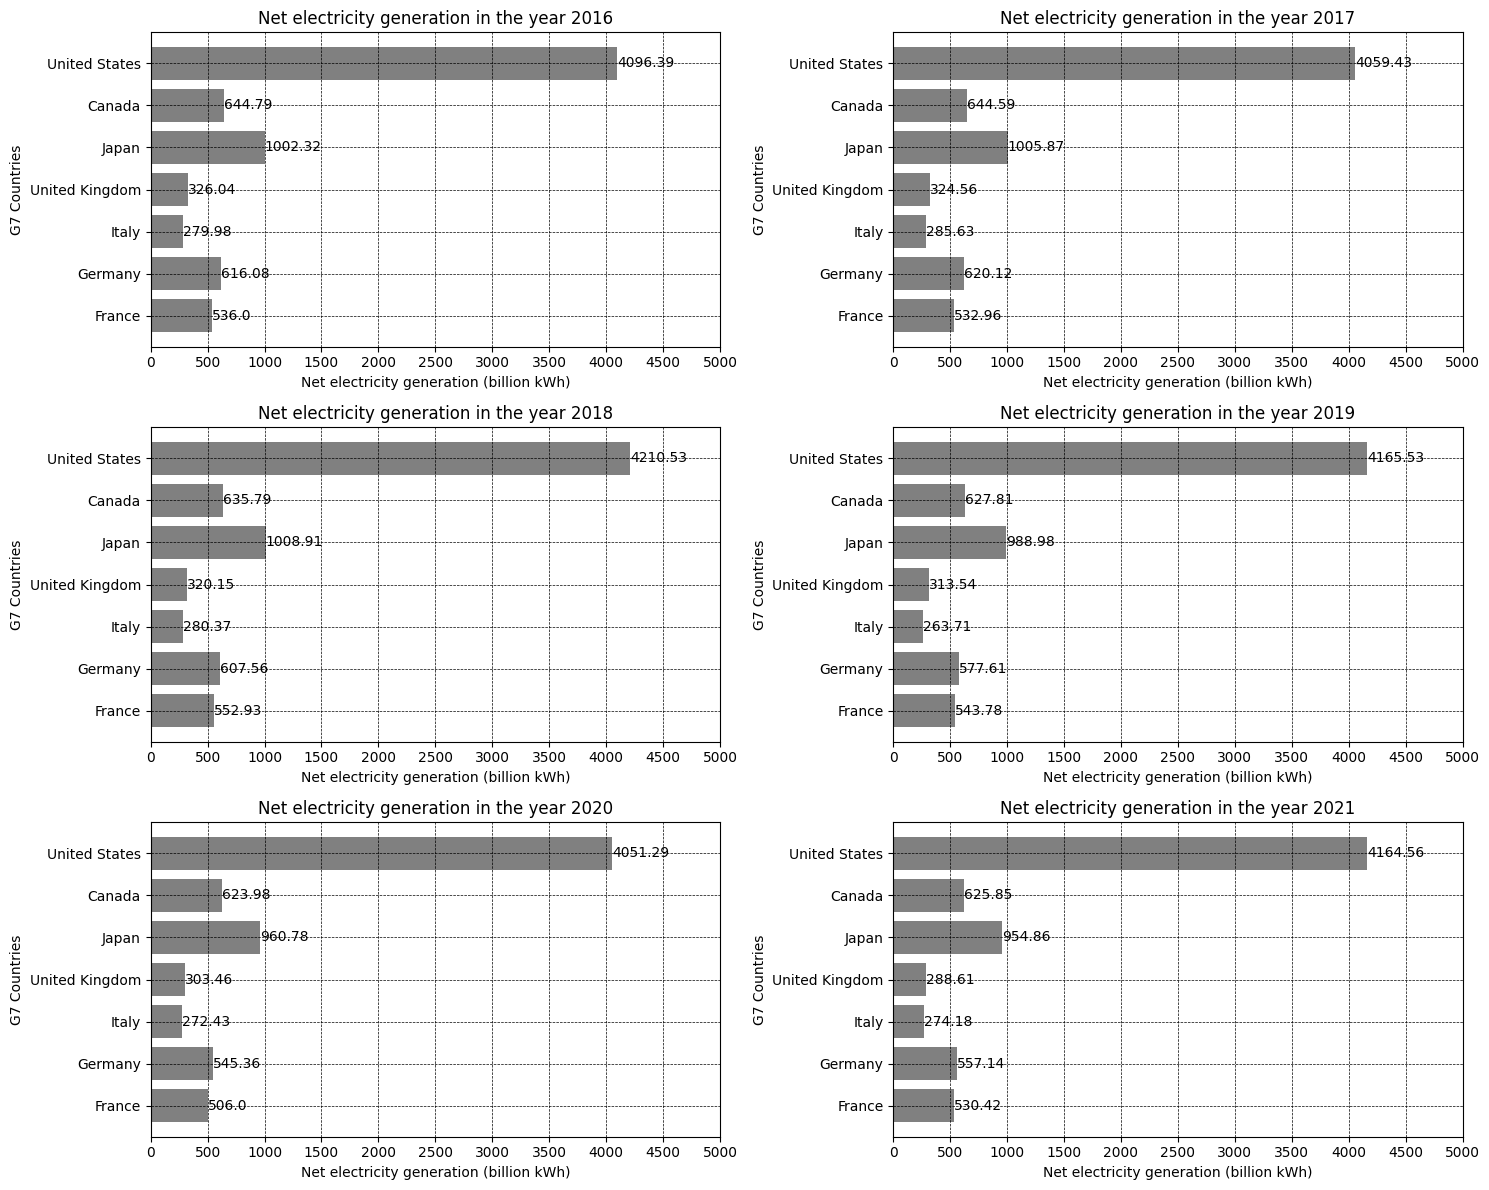
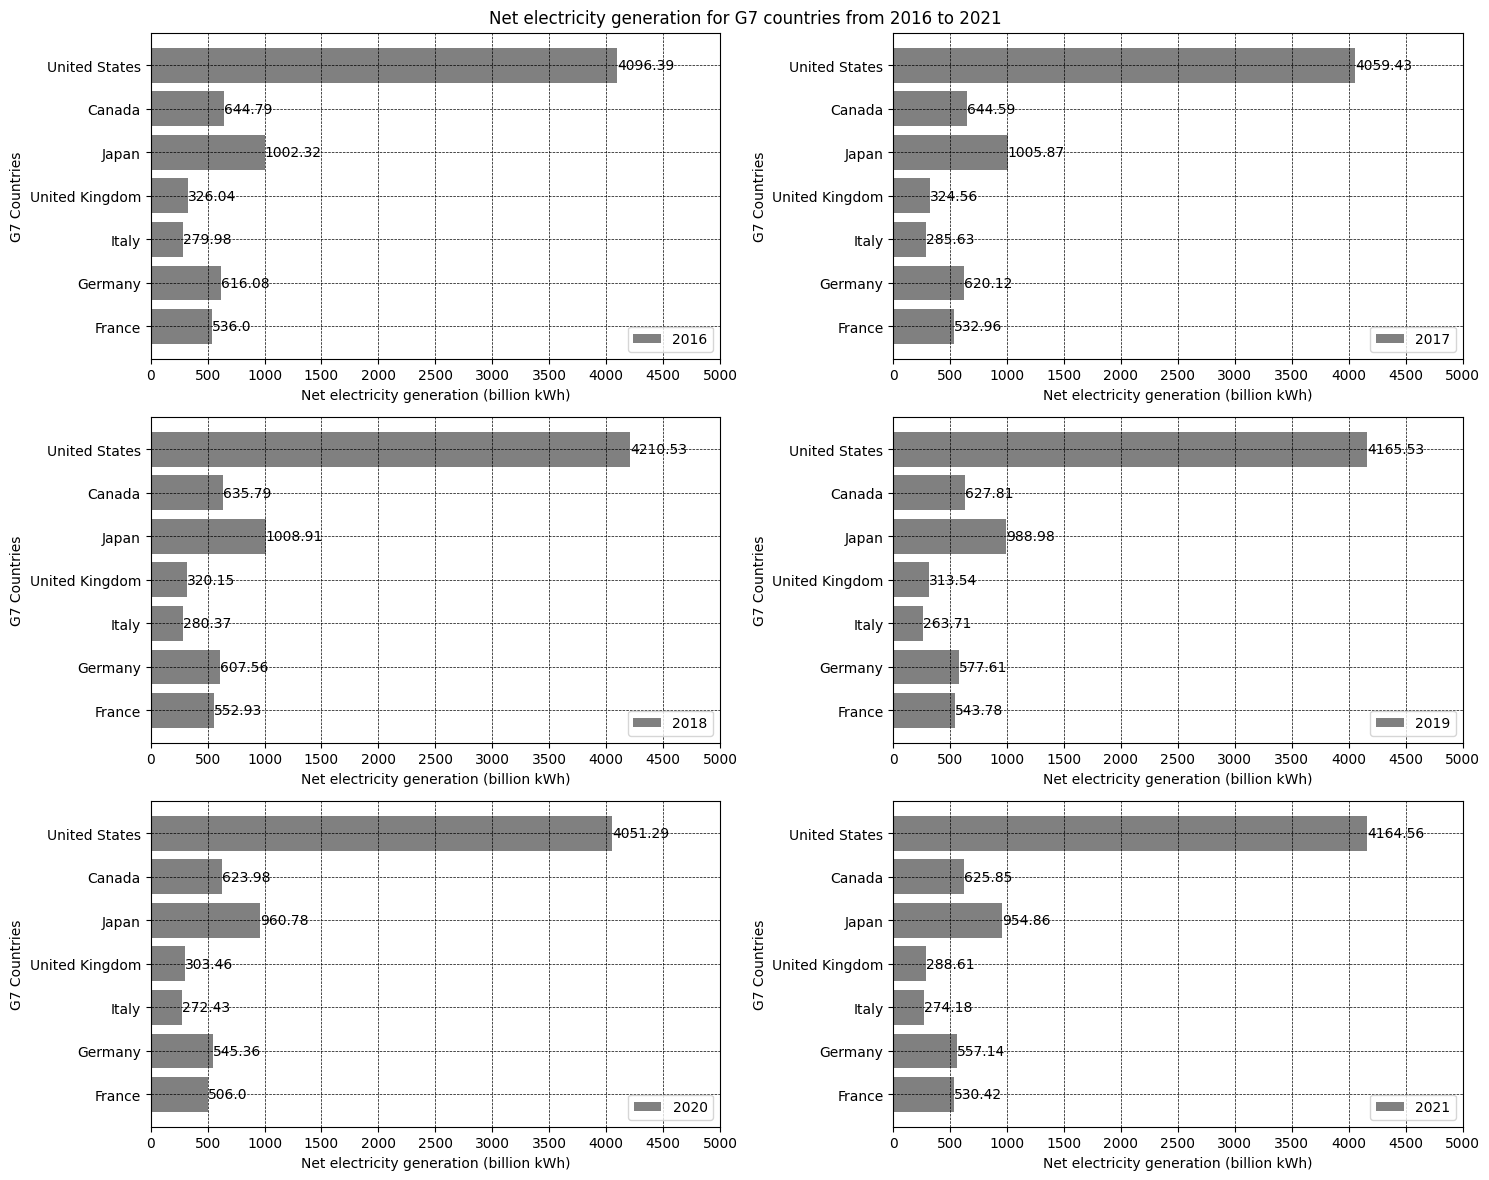
Add new code g8 countries

diff --git a/main.py b/main.py
@@ -7,12 +7,6 @@ df = pd.read_csv(file_path, sep=",", skipinitialspace=True)
 
 df1 = df[["Country","Features","2016","2017","2018","2019","2020","2021"]]
 x1 = ["United States", "Canada","France", "Germany", "Italy", "Japan", "United Kingdom"]
-
-df_net_consumption = df1.loc[(df1["Country"].isin(x1)) & (df1["Features"] == "net consumption")]
-df_imports = df1.loc[(df1["Country"].isin(x1)) & (df1["Features"] == "imports")]
-df_exports = df1.loc[(df1["Country"].isin(x1)) & (df1["Features"] == "exports")]
-df_net_imports = df1.loc[(df1["Country"].isin(x1)) & (df1["Features"] == "net imports")]
-df_net_exports = df1.loc[(df1["Country"].isin(x1)) & (df1["Features"] == "net exports")]
 df_net_generation = df1.loc[(df1["Country"].isin(x1)) & (df1["Features"] == "net generation")]
 x = list(df_net_generation["Country"])
 print(df_net_generation)
@@ -29,33 +23,22 @@ df_net_generation['2021'] = df_net_generation['2021'].astype(float)
 
 print(df_net_generation.dtypes)
 
-# df_net_consumption['2021'] = df_net_consumption['2021'].astype(float)
-# df_imports['2021'] = df_imports['2021'].astype(float)
-# df_exports['2021'] = df_exports['2021'].astype(float)
-# df_net_imports['2021'] = df_net_imports['2021'].astype(float)
-# df_net_exports['2021'] = df_net_exports['2021'].astype(float)
-
-# y = [list(df_net_generation["2021"]), list(df_net_consumption["2021"]), list(df_imports["2021"]),
-#      list(df_exports["2021"]), list(df_net_imports["2021"]), list(df_net_exports["2021"])]
-# legend_value = ["Net generation", "Net consumption", "Imports", "Exports", "Net imports", "Net exports"]
-
 y = [list(df_net_generation["2016"]), list(df_net_generation["2017"]), list(df_net_generation["2018"]),
      list(df_net_generation["2019"]), list(df_net_generation["2020"]), list(df_net_generation["2021"])]
 legend_value = list(df1.columns.values)
 legend_value = legend_value[2:]
-print(legend_value)
 
+print(legend_value)
 plt.figure(figsize=(15, 12))
+plt.suptitle("Net electricity generation for G7 countries from 2016 to 2021")
 for i in range(len(y)):
     print(i)
     print(y[i])
     plt.subplot(3, 2, i+1)
-    #plt.plot(x, y[i], label=legend_value[i], marker='X')
-    bars = plt.barh(x, y[i], color='gray')
-    plt.title("Net electricity generation in the year " + legend_value[i])
+    bars = plt.barh(x, y[i], color='gray', label=legend_value[i])
     plt.ylabel("G7 Countries")
     plt.xlabel("Net electricity generation (billion kWh)")
-    #plt.legend(loc="lower right")
+    plt.legend(loc="lower right")
     plt.xticks(rotation='horizontal')
     plt.xticks(np.arange(0, 5500, 500))
     plt.grid(color='k', linestyle='--', linewidth=0.5)
